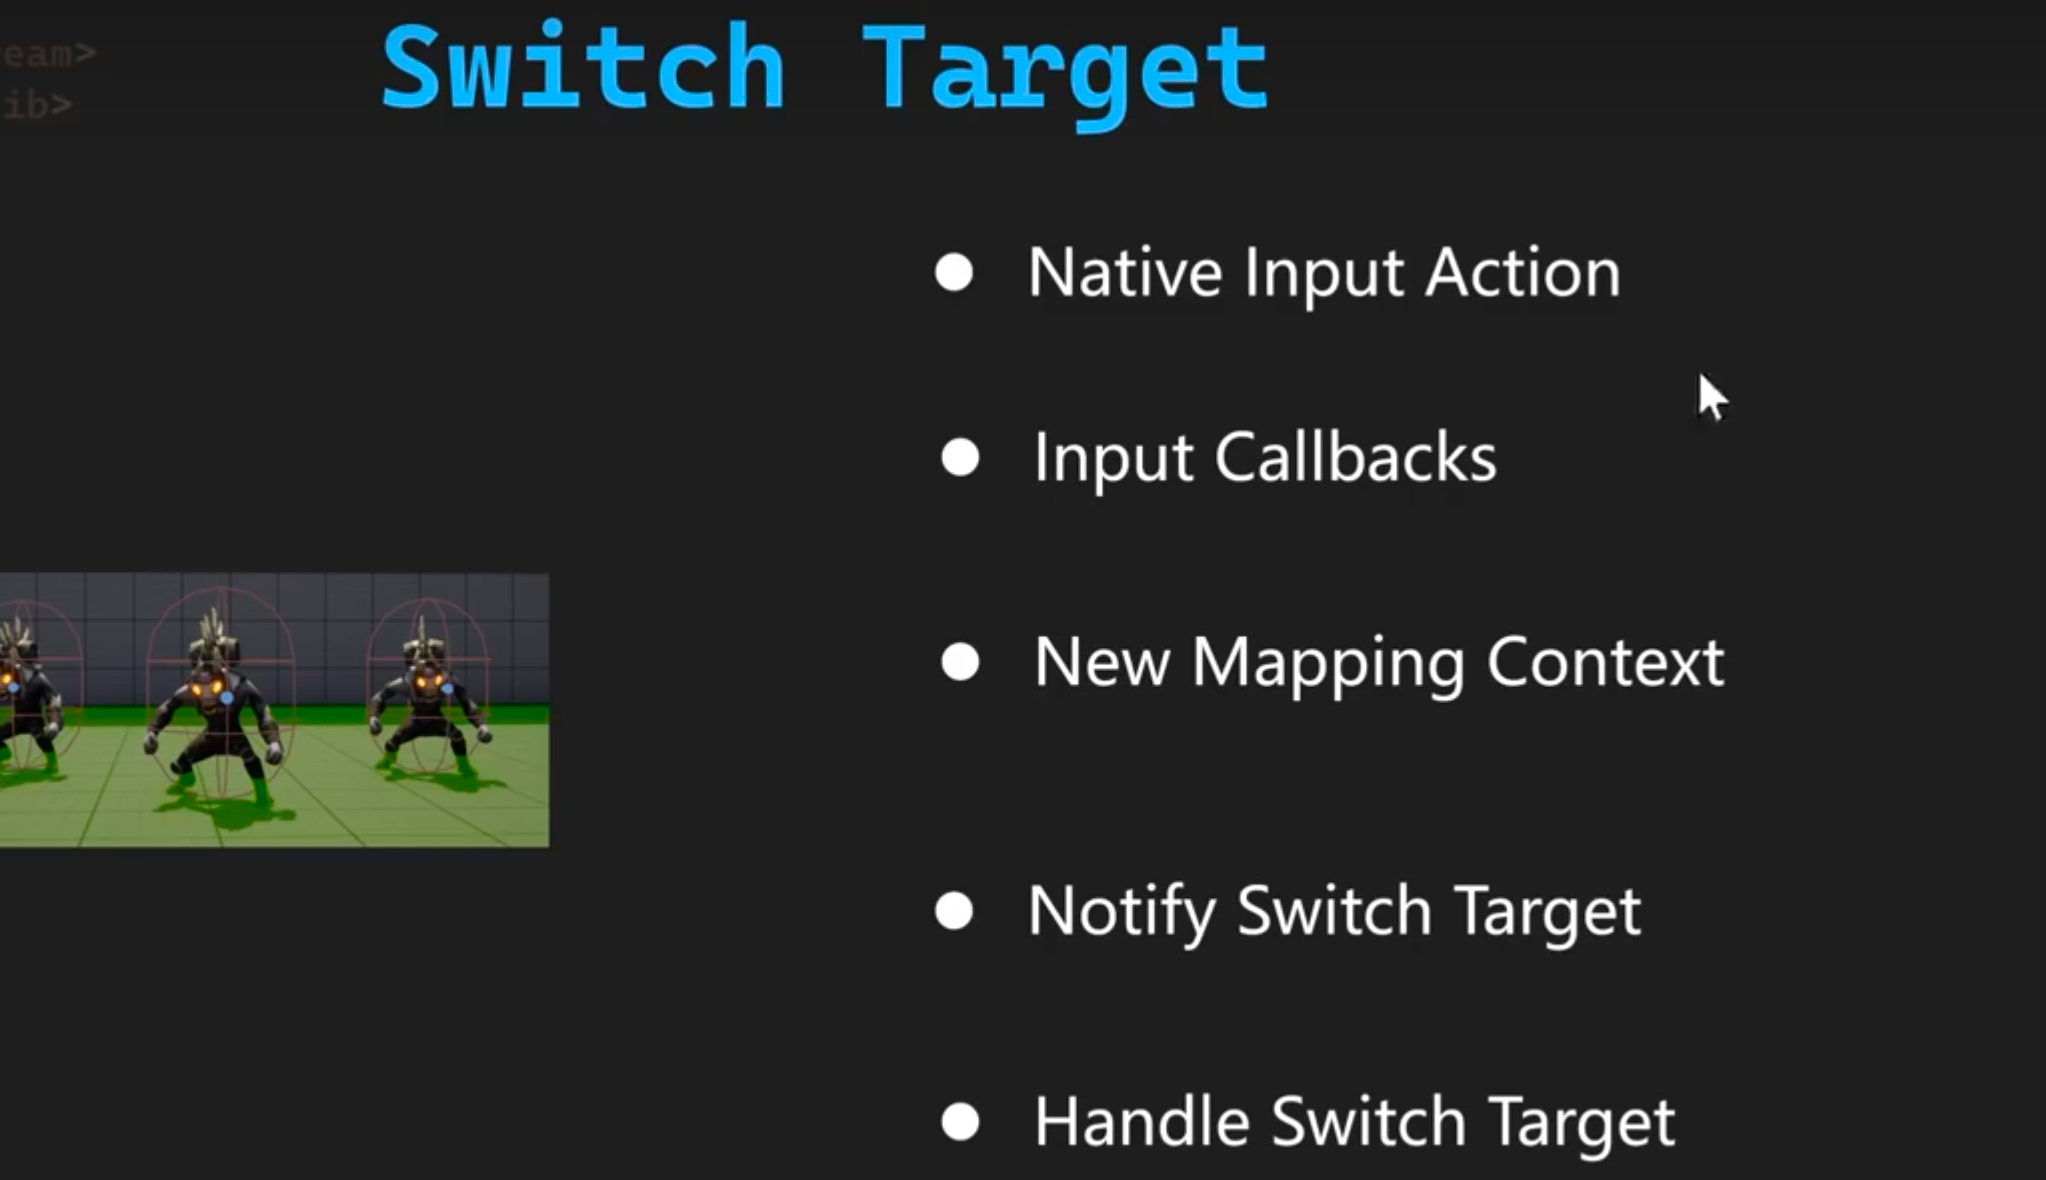
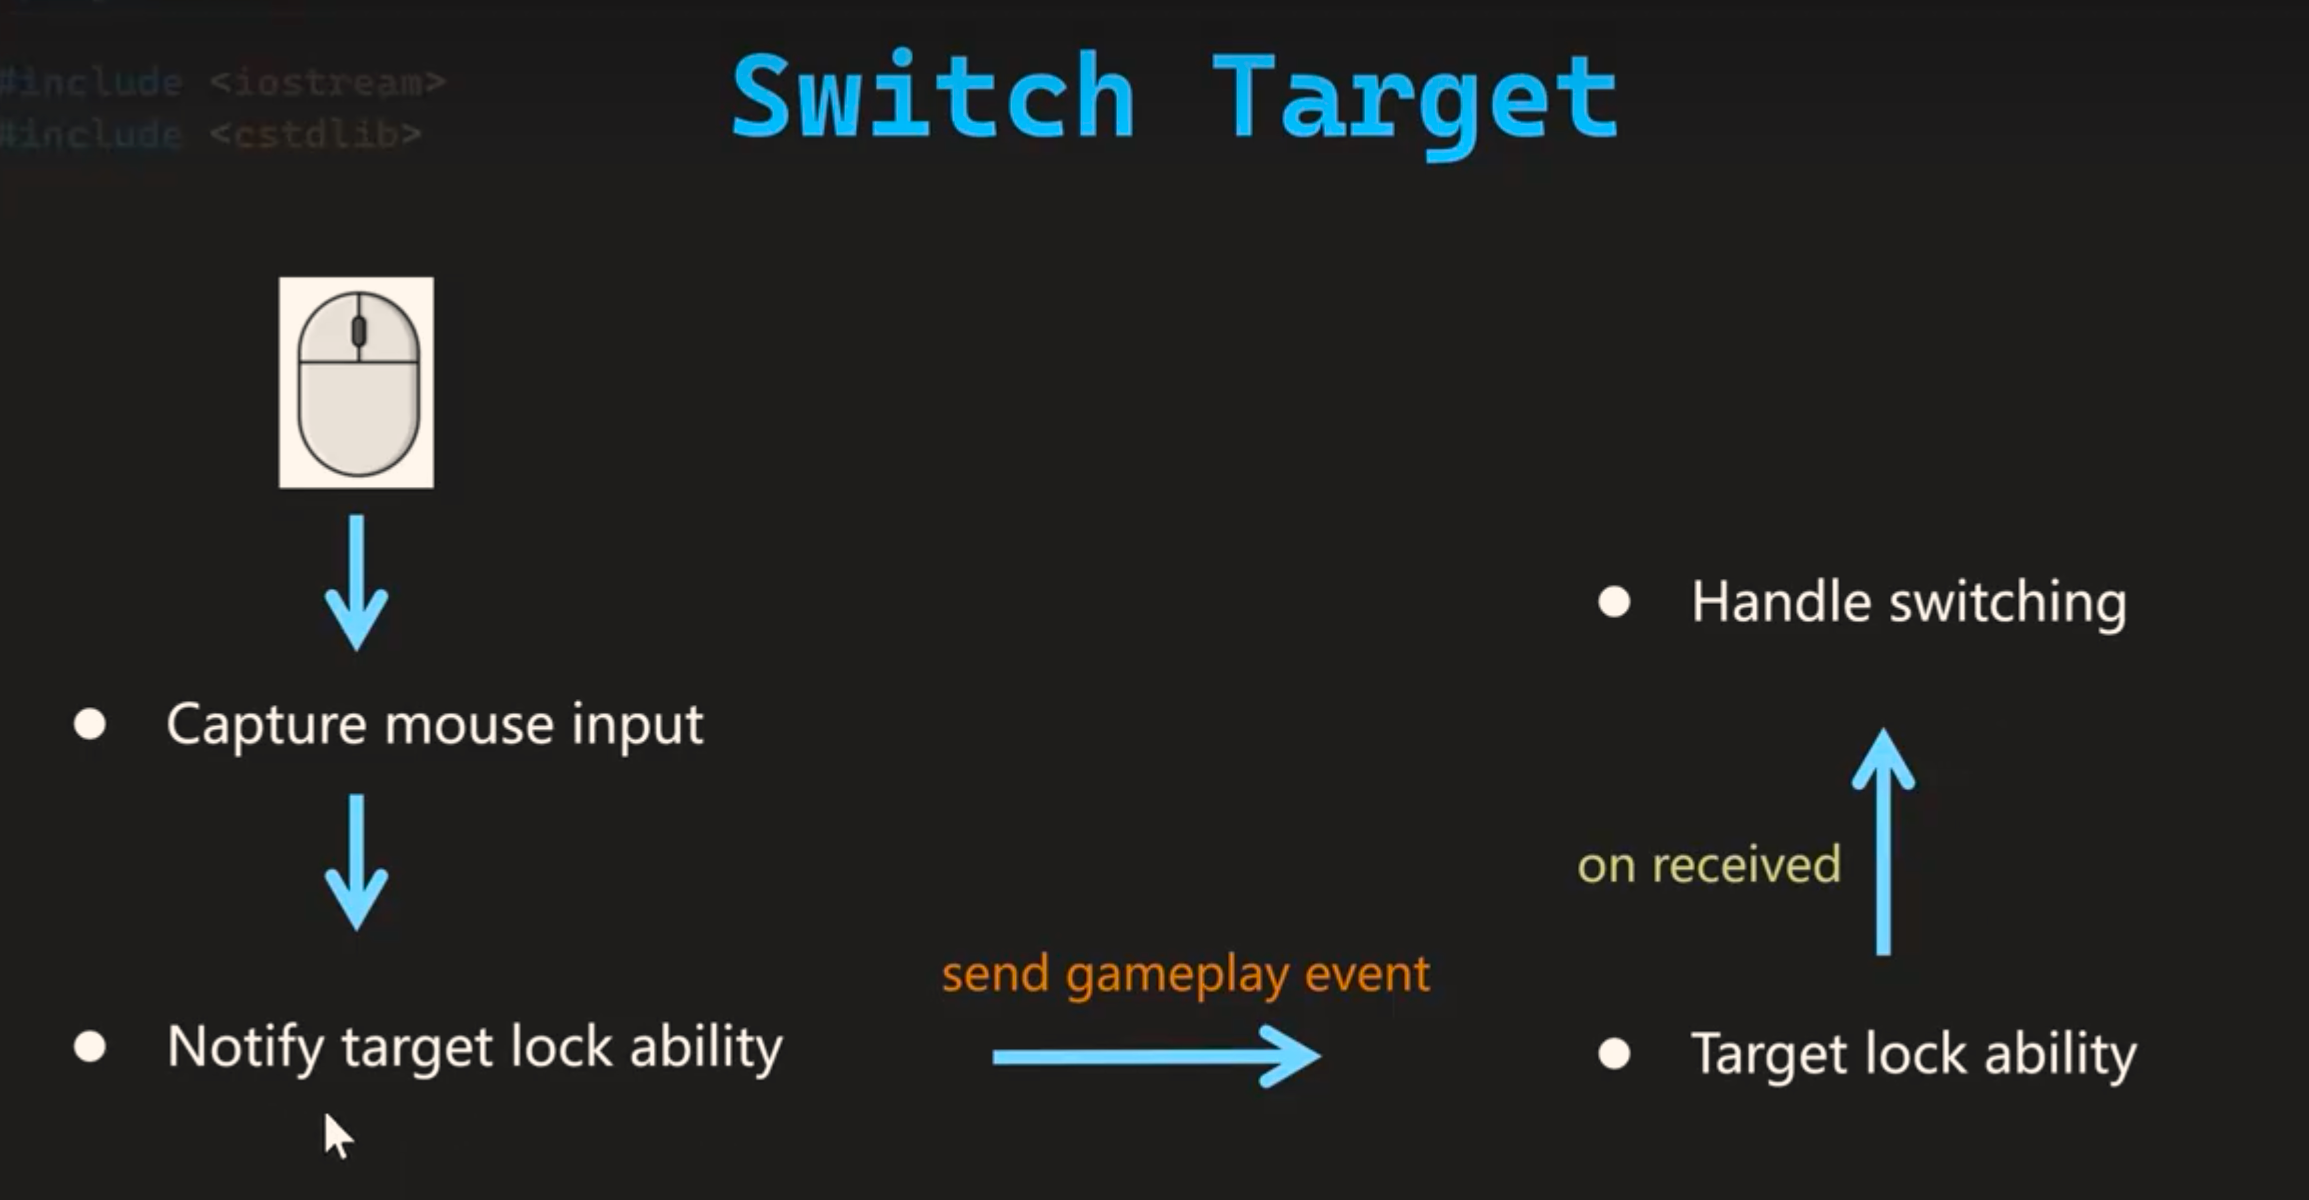
add new input mappingContext when target lock: send gameplayEvent in input callback function, wait gameplayEvent to handle switch Target

diff --git a/Source/Warrior/Private/Characters/WarriorHeroCharacter.cpp b/Source/Warrior/Private/Characters/WarriorHeroCharacter.cpp
@@ -3,6 +3,7 @@
 
 #include "Characters/WarriorHeroCharacter.h"
 
+#include "AbilitySystemBlueprintLibrary.h"
 #include "EnhancedInputSubsystems.h"
 #include "WarriorGameplayTags.h"
 #include "AbilitySystem/WarriorAbilitySystemComponent.h"
@@ -11,7 +12,6 @@
 #include "Components//Combat/HeroCombatComponent.h"
 #include "Components/Input/WarriorInputComponent.h"
 #include "Components/UI/HeroUIComponent.h"
-
 #include "DataAssets/Input/DataAsset_InputConfig.h"
 #include "DataAssets/StartupData/DataAsset_StartupDataBase.h"
 #include "GameFramework/CharacterMovementComponent.h"
@@ -124,10 +124,17 @@ void AWarriorHeroCharacter::Input_Look(const FInputActionValue& InputActionValue
 
 void AWarriorHeroCharacter::Input_SwitchTargetTriggered(const FInputActionValue& InputActionValue)
 {
+	SwitchDirection = InputActionValue.Get<FVector2D>();
 }
 
 void AWarriorHeroCharacter::Input_SwitchTargetCompleted(const FInputActionValue& InputActionValue)
 {
+	FGameplayEventData EventData;
+	UAbilitySystemBlueprintLibrary::SendGameplayEventToActor(
+		this,
+		SwitchDirection.X > 0 ? WarriorGameplayTags::Player_Event_SwitchTarget_Right : WarriorGameplayTags::Player_Event_SwitchTarget_Left,
+		EventData
+	);
 }
 
 void AWarriorHeroCharacter::Input_AbilityInputPressed(FGameplayTag InInputTag)

diff --git a/Source/Warrior/Public/AbilitySystem/Abilities/GAHeroToggleTargetLock.h b/Source/Warrior/Public/AbilitySystem/Abilities/GAHeroToggleTargetLock.h
@@ -21,7 +21,11 @@ protected:
 	virtual void ActivateAbility(const FGameplayAbilitySpecHandle Handle, const FGameplayAbilityActorInfo* ActorInfo, const FGameplayAbilityActivationInfo ActivationInfo, const FGameplayEventData* TriggerEventData) override;
 	virtual void EndAbility(const FGameplayAbilitySpecHandle Handle, const FGameplayAbilityActorInfo* ActorInfo, const FGameplayAbilityActivationInfo ActivationInfo, bool bReplicateEndAbility, bool bWasCancelled) override;
 	//~ End UGameplayAbility Interface
+
+	void GetAvailableActorsAroundTarget(TArray<AActor*>& OutActorsOnLeft, TArray<AActor*>& OutActorsOnRight);
 	
+	UFUNCTION(BlueprintCallable)
+	void SwitchTarget(const FGameplayTag& InSwitchDirectionTag);
 private:
 	void TryLockOnTarget();
 	void GetAvailableActorsToLock();

diff --git a/Source/Warrior/Private/WarriorGameplayTags.cpp b/Source/Warrior/Private/WarriorGameplayTags.cpp
@@ -37,6 +37,8 @@ namespace WarriorGameplayTags
 	UE_DEFINE_GAMEPLAY_TAG(Player_Event_Unequip_Axe, "Player.Event.Unequip.Axe");
 	UE_DEFINE_GAMEPLAY_TAG(Player_Event_HitPause, "Player.Event.HitPause");
 	UE_DEFINE_GAMEPLAY_TAG(Player_Event_SuccessfulBlock, "Player.Event.SuccessfulBlock");
+	UE_DEFINE_GAMEPLAY_TAG(Player_Event_SwitchTarget_Left, "Player.Event.SwitchTarget.Left");
+	UE_DEFINE_GAMEPLAY_TAG(Player_Event_SwitchTarget_Right, "Player.Event.SwitchTarget.Right");
 
 	UE_DEFINE_GAMEPLAY_TAG(Player_Status_JumpToFinish, "Player.Status.JumpToFinish");
 	UE_DEFINE_GAMEPLAY_TAG(Player_Status_Rolling, "Player.Status.Rolling");

diff --git a/Source/Warrior/Public/WarriorGameplayTags.h b/Source/Warrior/Public/WarriorGameplayTags.h
@@ -39,6 +39,9 @@ namespace WarriorGameplayTags
 	WARRIOR_API UE_DECLARE_GAMEPLAY_TAG_EXTERN(Player_Event_Unequip_Axe);
 	WARRIOR_API UE_DECLARE_GAMEPLAY_TAG_EXTERN(Player_Event_HitPause);
 	WARRIOR_API UE_DECLARE_GAMEPLAY_TAG_EXTERN(Player_Event_SuccessfulBlock);
+	WARRIOR_API UE_DECLARE_GAMEPLAY_TAG_EXTERN(Player_Event_SwitchTarget_Left);
+	WARRIOR_API UE_DECLARE_GAMEPLAY_TAG_EXTERN(Player_Event_SwitchTarget_Right);
+	
 
 	WARRIOR_API UE_DECLARE_GAMEPLAY_TAG_EXTERN(Player_Status_JumpToFinish);
 	WARRIOR_API UE_DECLARE_GAMEPLAY_TAG_EXTERN(Player_Status_Rolling);

diff --git a/Source/Warrior/Private/Items/Weapons/WarriorWeaponBase.cpp b/Source/Warrior/Private/Items/Weapons/WarriorWeaponBase.cpp
@@ -33,11 +33,10 @@ void AWarriorWeaponBase::OnCollisionBoxBeginOverlap(UPrimitiveComponent* Overlap
 	checkf(WeaponOwningPawn, TEXT("Forgot to assign an instigator as the owning pawn for the weapon: %s"), *GetName());
 	if (APawn* HitPawn = Cast<APawn>(OtherActor))
 	{
-		if (HitPawn != WeaponOwningPawn)
+		if (UWarriorFunctionLibrary::IsTargetPawnHostile(WeaponOwningPawn, HitPawn))
 		{
 			OnWeaponHitTarget.ExecuteIfBound(OtherActor);
 		}
-		//TODO: hit enemy character
 	}
 }
 

diff --git a/Source/Warrior/Public/Characters/WarriorHeroCharacter.h b/Source/Warrior/Public/Characters/WarriorHeroCharacter.h
@@ -61,6 +61,8 @@ private:
 	void Input_Move(const FInputActionValue& InputActionValue);
 	void Input_Look(const FInputActionValue& InputActionValue);
 
+	FVector2D SwitchDirection = FVector2D::ZeroVector;
+	
 	void Input_SwitchTargetTriggered(const FInputActionValue& InputActionValue);
 	void Input_SwitchTargetCompleted(const FInputActionValue& InputActionValue);
 
